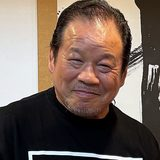
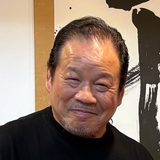
トップの応援メッセージ枠: 桜庭氏・藤波氏の丸写真の切り抜きを調整

diff --git a/tools/build_supporter_thumbs.py b/tools/build_supporter_thumbs.py
@@ -25,17 +25,27 @@ SIZE = 160
 
 CROPS = {
     "hayashi-toshiyuki.jpg": (0.34, 0.29, 0.76),
-    "sakuraba-yoshihiko.jpg": (0.50, 0.40, 0.42),
+    # 桜庭氏: 元写真は頭のすぐ上で切れているので、上端(cy=0 → 上に寄せる)から取る
+    "sakuraba-yoshihiko.jpg": (0.50, 0.0, 0.44),
     "nakajima-shuji.jpg": (0.50, 0.36, 0.62),
-    "fujinami-tatsumi.jpg": (0.50, 0.37, 0.82),
+    # 藤波氏: None = このスクリプトでは作らない(既存の images/supporters/ の画像を残す)。
+    #   掲載写真(images/messages/)は頭上の余白が25pxしかなく、丸にすると頭が切れる。
+    #   そのため加工前の原本 documents/写真原本/fujinami_ツーショット_元.jpg(gitには無い)から
+    #   直接切り出している。縦を900pxに縮めた座標で 中心x=233, 上端y=140, 一辺180 の正方形を
+    #   160x160 に縮小。色は掲載写真と同じ補正(白壁基準のWB 7割 + 軽いトーン伸長)。
+    "fujinami-tatsumi.jpg": None,
     "mukoyama-masatoshi.jpg": (0.50, 0.27, 0.58),
 }
 
 
 def main():
     os.makedirs(DST, exist_ok=True)
-    for name, (cx, cy, side) in CROPS.items():
-        im = ImageOps.exif_transpose(Image.open(os.path.join(SRC, name))).convert("RGB")
+    for name, box in CROPS.items():
+        if box is None:
+            print("[--] %s (手作業で作成したものを使う。上のコメント参照)" % name)
+            continue
+        cx, cy, side = box
+        im =ImageOps.exif_transpose(Image.open(os.path.join(SRC, name))).convert("RGB")
         w, h = im.size
         s = side * w
         x0 = min(max(cx * w - s / 2, 0), w - s)
